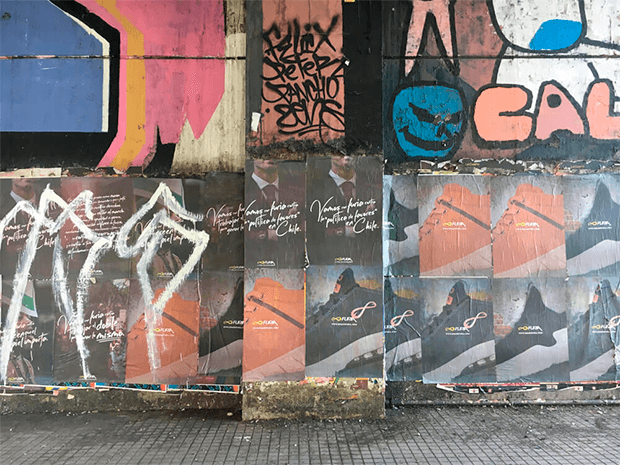
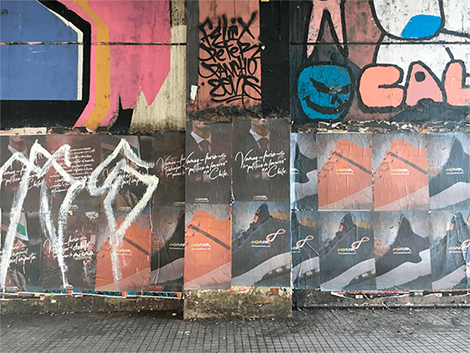
scrset proyecto

diff --git a/secciones/proyecto.html b/secciones/proyecto.html
@@ -8,16 +8,17 @@
 
     <!--Keywords y description-->
     <meta name="keywords" content="investigación, carteles, publicidad, ciudad, espectáculo, Santiago, Metro">
-    <meta name="description" content="Proyecto de investigación, observación y registro de carteles publicitarios en torno al metro en la comuna de Macul">
+    <meta name="description"
+        content="Proyecto de investigación, observación y registro de carteles publicitarios en torno al metro en la comuna de Macul">
 
-     <!--Open Graph-->
-     <meta property="og:title" content="Proyecto || La ciudad en los muros">
-     <meta property="og:type" content="website">
-     <meta property="og:url" content="https://ciudadmuros.000webhostapp.com/proyecto.html">
-     <meta property="og:image" content="https://ciudadmuros.000webhostapp.com/media/ogimage.png">
-     <meta property="og:image:type" content="image/png">
-     <meta property="og:description"
-         content="Proyecto de investigación, observación y registro de carteles publicitarios en torno al metro en la comuna de Macul">
+    <!--Open Graph-->
+    <meta property="og:title" content="Proyecto || La ciudad en los muros">
+    <meta property="og:type" content="website">
+    <meta property="og:url" content="https://ciudadmuros.000webhostapp.com/proyecto.html">
+    <meta property="og:image" content="https://ciudadmuros.000webhostapp.com/media/ogimage.png">
+    <meta property="og:image:type" content="image/png">
+    <meta property="og:description"
+        content="Proyecto de investigación, observación y registro de carteles publicitarios en torno al metro en la comuna de Macul">
 
     <!--Bootstrap CSS-->
     <link href="https://cdn.jsdelivr.net/npm/bootstrap@5.1.3/dist/css/bootstrap.min.css" rel="stylesheet"
@@ -84,8 +85,11 @@
         <section class="row about-proyecto">
             <!--Columna 1-->
             <div class="col-12">
-                <img src="https://lh3.googleusercontent.com/pw/AM-JKLWGVl8H9SV1HKHkFm_W91zahKL-C3yy6CRuYRHeF5bqNPpqJImqbZ6pk8oOdh7I9KhU2HZXY7VE71zmwFDH6y-DlQbLlJUkZKFQtwvT9L2SfNFBvvP1kf_VkEWnbdWKVyJTaB32Dzd9R_boSTk_VJOMoQ=w1200-h560-no?authuser=1"
-                    alt="Carteles publicitarios rasgados y mojados" class="float-end w-75">
+                <picture class="float-end w-75">
+                    <source media="(max-width: 480px)" srcset="../media/m_proyecto__head.webp">
+                    <source media="(min-width: 720px) and (max-width: 1024px)" srcset="../media/t_proyecto__head.webp">
+                    <img src="../media/proyecto__head.webp" alt="Carteles publicitarios rasgados y mojados">
+                </picture>
                 <h1>El proyecto</h1>
             </div>
 
@@ -98,7 +102,8 @@
                         serie para ser colgadas".</i>
                 </p>
 
-                <p class="ref"><a href="http://www.aatespanol.cl/terminos/300027221" target="_blank" rel="nofollow"> Tesauro de Arte &
+                <p class="ref"><a href="http://www.aatespanol.cl/terminos/300027221" target="_blank" rel="nofollow">
+                        Tesauro de Arte &
                         Arquitectura.</a>
                 </p>
             </div>
@@ -143,12 +148,23 @@
 
         <!--Sección 2 - Imagenes-->
         <section class="row img-proyecto">
-            <img src="../media/proyecto__muro-1_3.webp" alt="Muro con carteles y rayados" class="col-12 col-md-4" alt=""
-                data-aos="fade-up" data-aos-duration="1500">
-            <img src="../media/proyecto__muro-2_3.webp" alt="Muro con carteles pegados sobre otros carteles"
-                class="col-12 col-md-4" alt="" data-aos="fade-up" data-aos-duration="1500">
-            <img src="../media/proyecto__muro-3_3.webp" alt="muro con carteles pegados de distintos eventos"
-                class="col-12 col-md-4" alt="" data-aos="fade-up" data-aos-duration="1500">
+            <picture class="col-12 col-md-4" data-aos="fade-up" data-aos-duration="1500">
+                <source media="(max-width: 480px)" srcset="../media/m_proyecto__muro-1_3.webp">
+                <source media="(min-width: 720px) and (max-width: 1024px)" srcset="../media/t_proyecto__muro-1_3.webp">
+                <img src="../media/proyecto__muro-1_3.webp" alt="Muro con carteles y rayados">
+            </picture>
+
+            <picture class="col-12 col-md-4" data-aos="fade-up" data-aos-duration="1500">
+                <source media="(max-width: 480px)" srcset="../media/m_proyecto__muro-2_3.webp">
+                <source media="(min-width: 720px) and (max-width: 1024px)" srcset="../media/t_proyecto__muro-2_3.webp">
+                <img src="../media/proyecto__muro-2_3.webp" alt="Muro con carteles pegados sobre otros carteles">
+            </picture>
+
+            <picture class="col-12 col-md-4" data-aos="fade-up" data-aos-duration="1500">
+                <source media="(max-width: 480px)" srcset="../media/m_proyecto__muro-3_3.webp">
+                <source media="(min-width: 720px) and (max-width: 1024px)" srcset="../media/t_proyecto__muro-3_3.webp">
+                <img src="../media/proyecto__muro-3_3.webp" alt="muro con carteles pegados de distintos eventos">
+            </picture>
         </section>
         <!--Fin sección 2-->
 
@@ -182,8 +198,13 @@
 
             <!--Columna 2-->
             <div class="col-10 offset-2 col-md-5 offset-md-1">
-                <img src="../media/proyecto__retazo.webp" alt="Retazo cartel publicitario"
-                    class="retazo w-100 float-end" data-aos="fade-up" data-aos-duration="1500" data-aos-delay="200">
+                <picture class="retazo w-100 float-end" data-aos="fade-up" data-aos-duration="1500"
+                    data-aos-delay="200">
+                    <source media="(max-width: 480px)" srcset="../media/m_proyecto__retazo.webp">
+                    <source media="(min-width: 720px) and (max-width: 1024px)"
+                        srcset="../media/t_proyecto__retazo.webp">
+                    <img src="../media/proyecto__retazo.webp" alt="Retazo cartel publicitario">
+                </picture>
             </div>
             <!--Fin columna 2-->
         </section>
@@ -234,7 +255,8 @@
         <!--Columna 3-->
         <div class="col-12 col-md-6 col-lg-6 col-xl-4">
             <p>Si deseas leer el texto completo de este proyecto,
-                <a href="https://repositorio.uchile.cl/handle/2250/173200" target="_blank" rel="nofollow"><b>ingresa acá</b></a>
+                <a href="https://repositorio.uchile.cl/handle/2250/173200" target="_blank" rel="nofollow"><b>ingresa
+                        acá</b></a>
             </p>
             <p>Si deseas saber más,
                 <a href="mailto:nivacea@gmail.com"><b>hablemos</b></a>

diff --git a/css/style.css b/css/style.css
@@ -406,7 +406,7 @@ nav.navbar {
   padding: 7%;
   display: flex;
   justify-content: space-between; }
-  .about-proyecto img {
+  .about-proyecto picture {
     opacity: 0.85;
     margin-bottom: 10%; }
   @media only screen and (max-width: 480px) {
@@ -423,22 +423,22 @@ nav.navbar {
       background-position: left bottom; }
 
 /*Sección 2 – Imagenes*/
-.img-proyecto img {
+.img-proyecto picture {
   padding-top: 10%; }
-  .img-proyecto img:first-child {
+  .img-proyecto picture:first-child {
     position: relative;
     bottom: 150px;
     z-index: -1; }
     @media only screen and (max-width: 480px) {
-      .img-proyecto img:first-child {
+      .img-proyecto picture:first-child {
         position: static; } }
-  .img-proyecto img:last-child {
+  .img-proyecto picture:last-child {
     position: relative;
     bottom: 0;
     z-index: -1;
     top: 150px; }
     @media only screen and (max-width: 480px) {
-      .img-proyecto img:last-child {
+      .img-proyecto picture:last-child {
         position: static; } }
 
 /*Sección 3*/

diff --git a/scss/components/_proyecto.scss b/scss/components/_proyecto.scss
@@ -6,7 +6,7 @@
   display: flex;
   justify-content: space-between;
 
-  img {
+  picture {
     opacity: 0.85;
     margin-bottom: 10%;
   }
@@ -42,7 +42,7 @@
 
 /*Sección 2 – Imagenes*/
 .img-proyecto {
-  img {
+  picture {
     padding-top: 10%;
 
     &:first-child {
